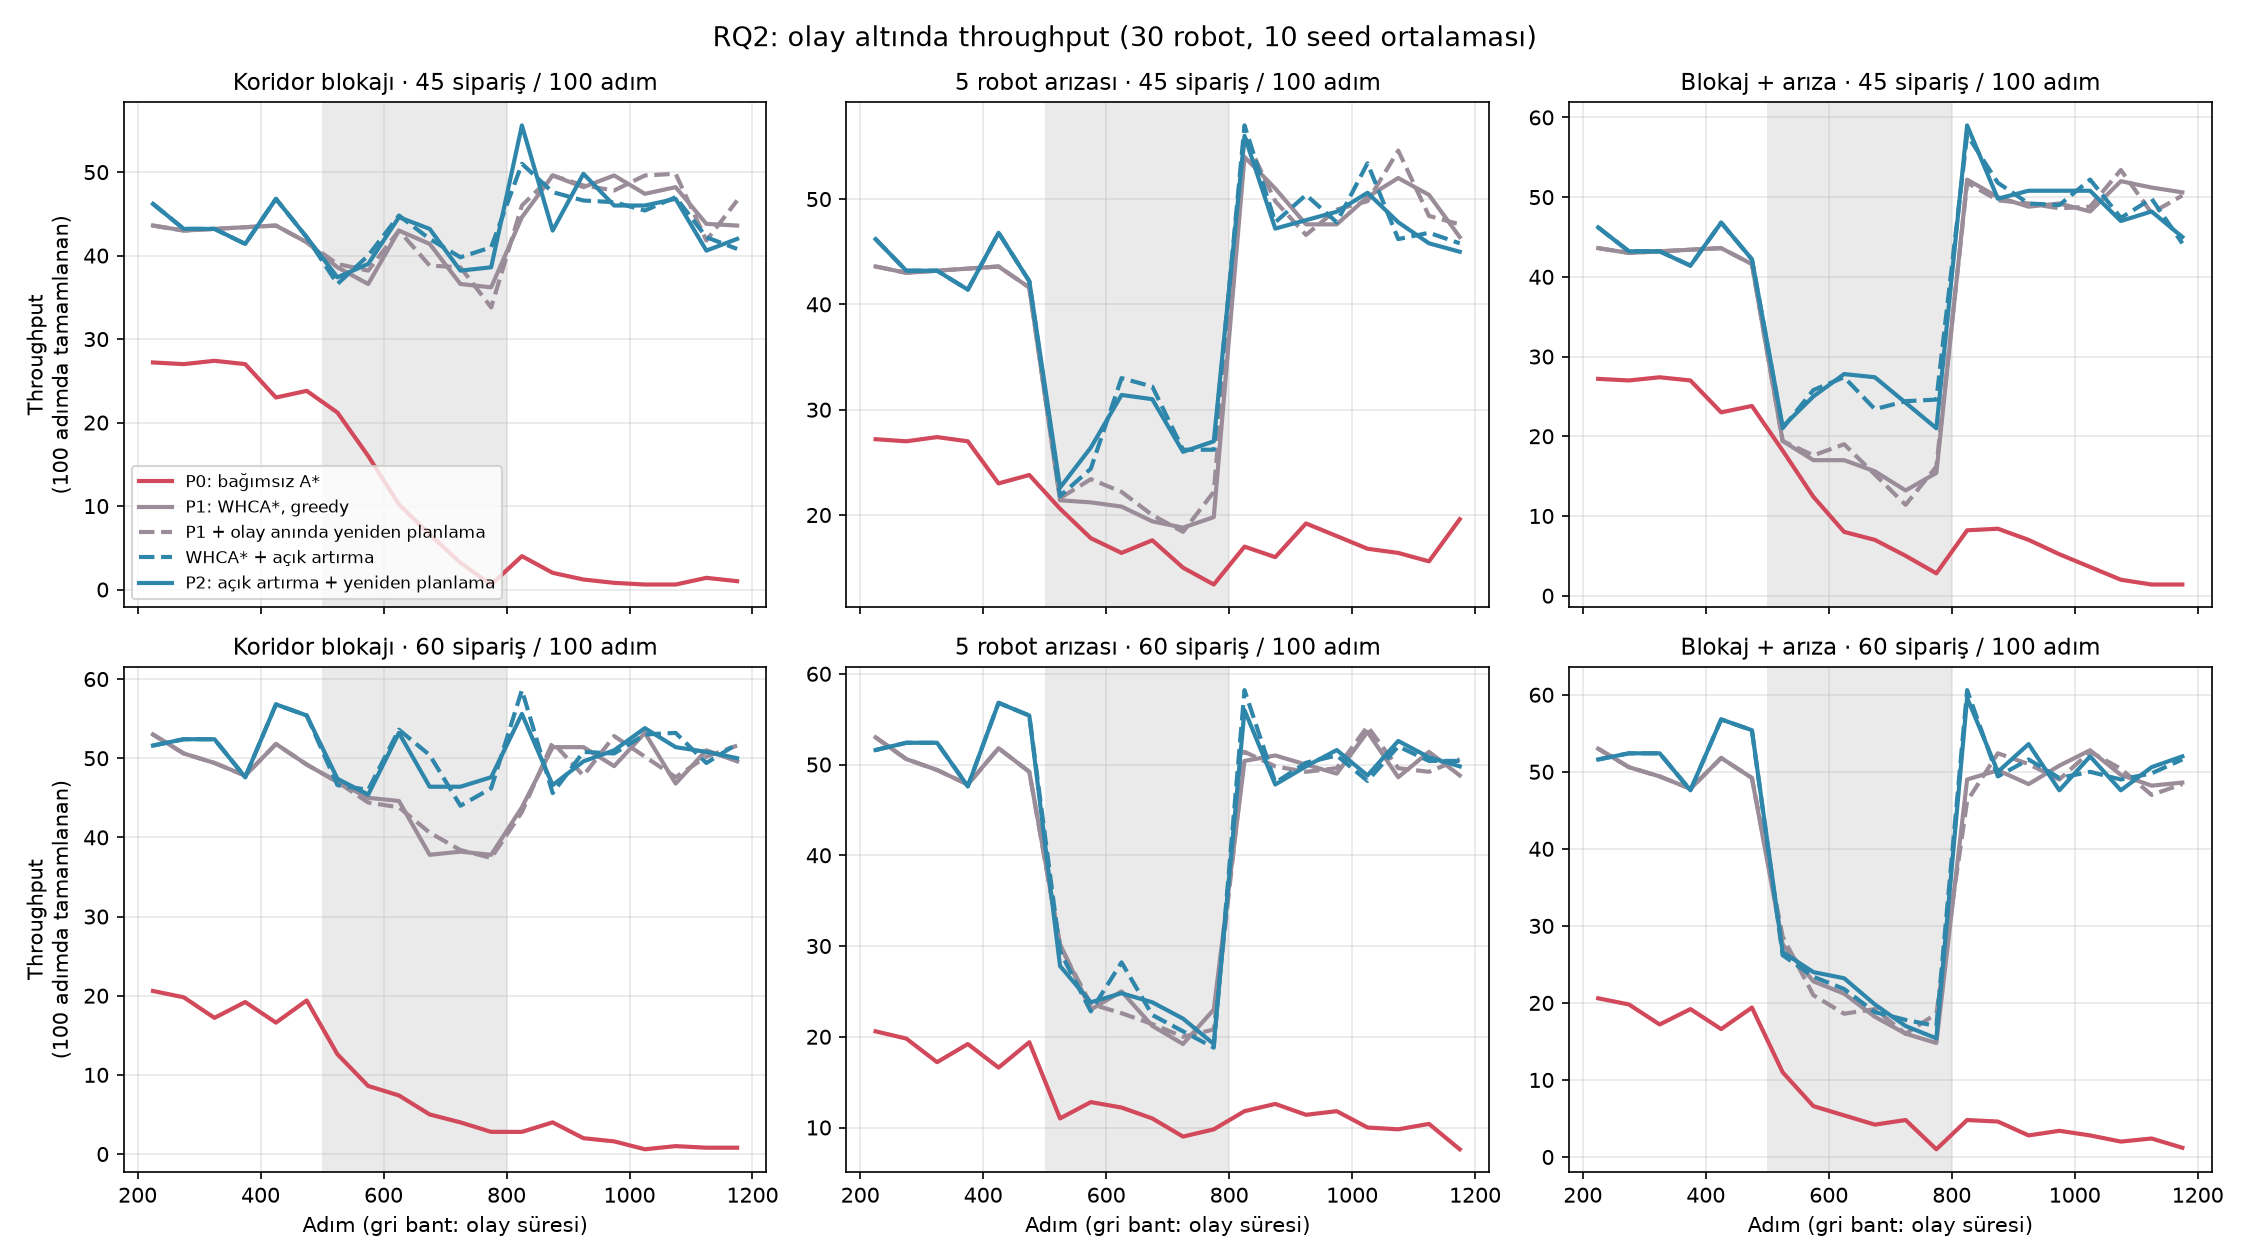
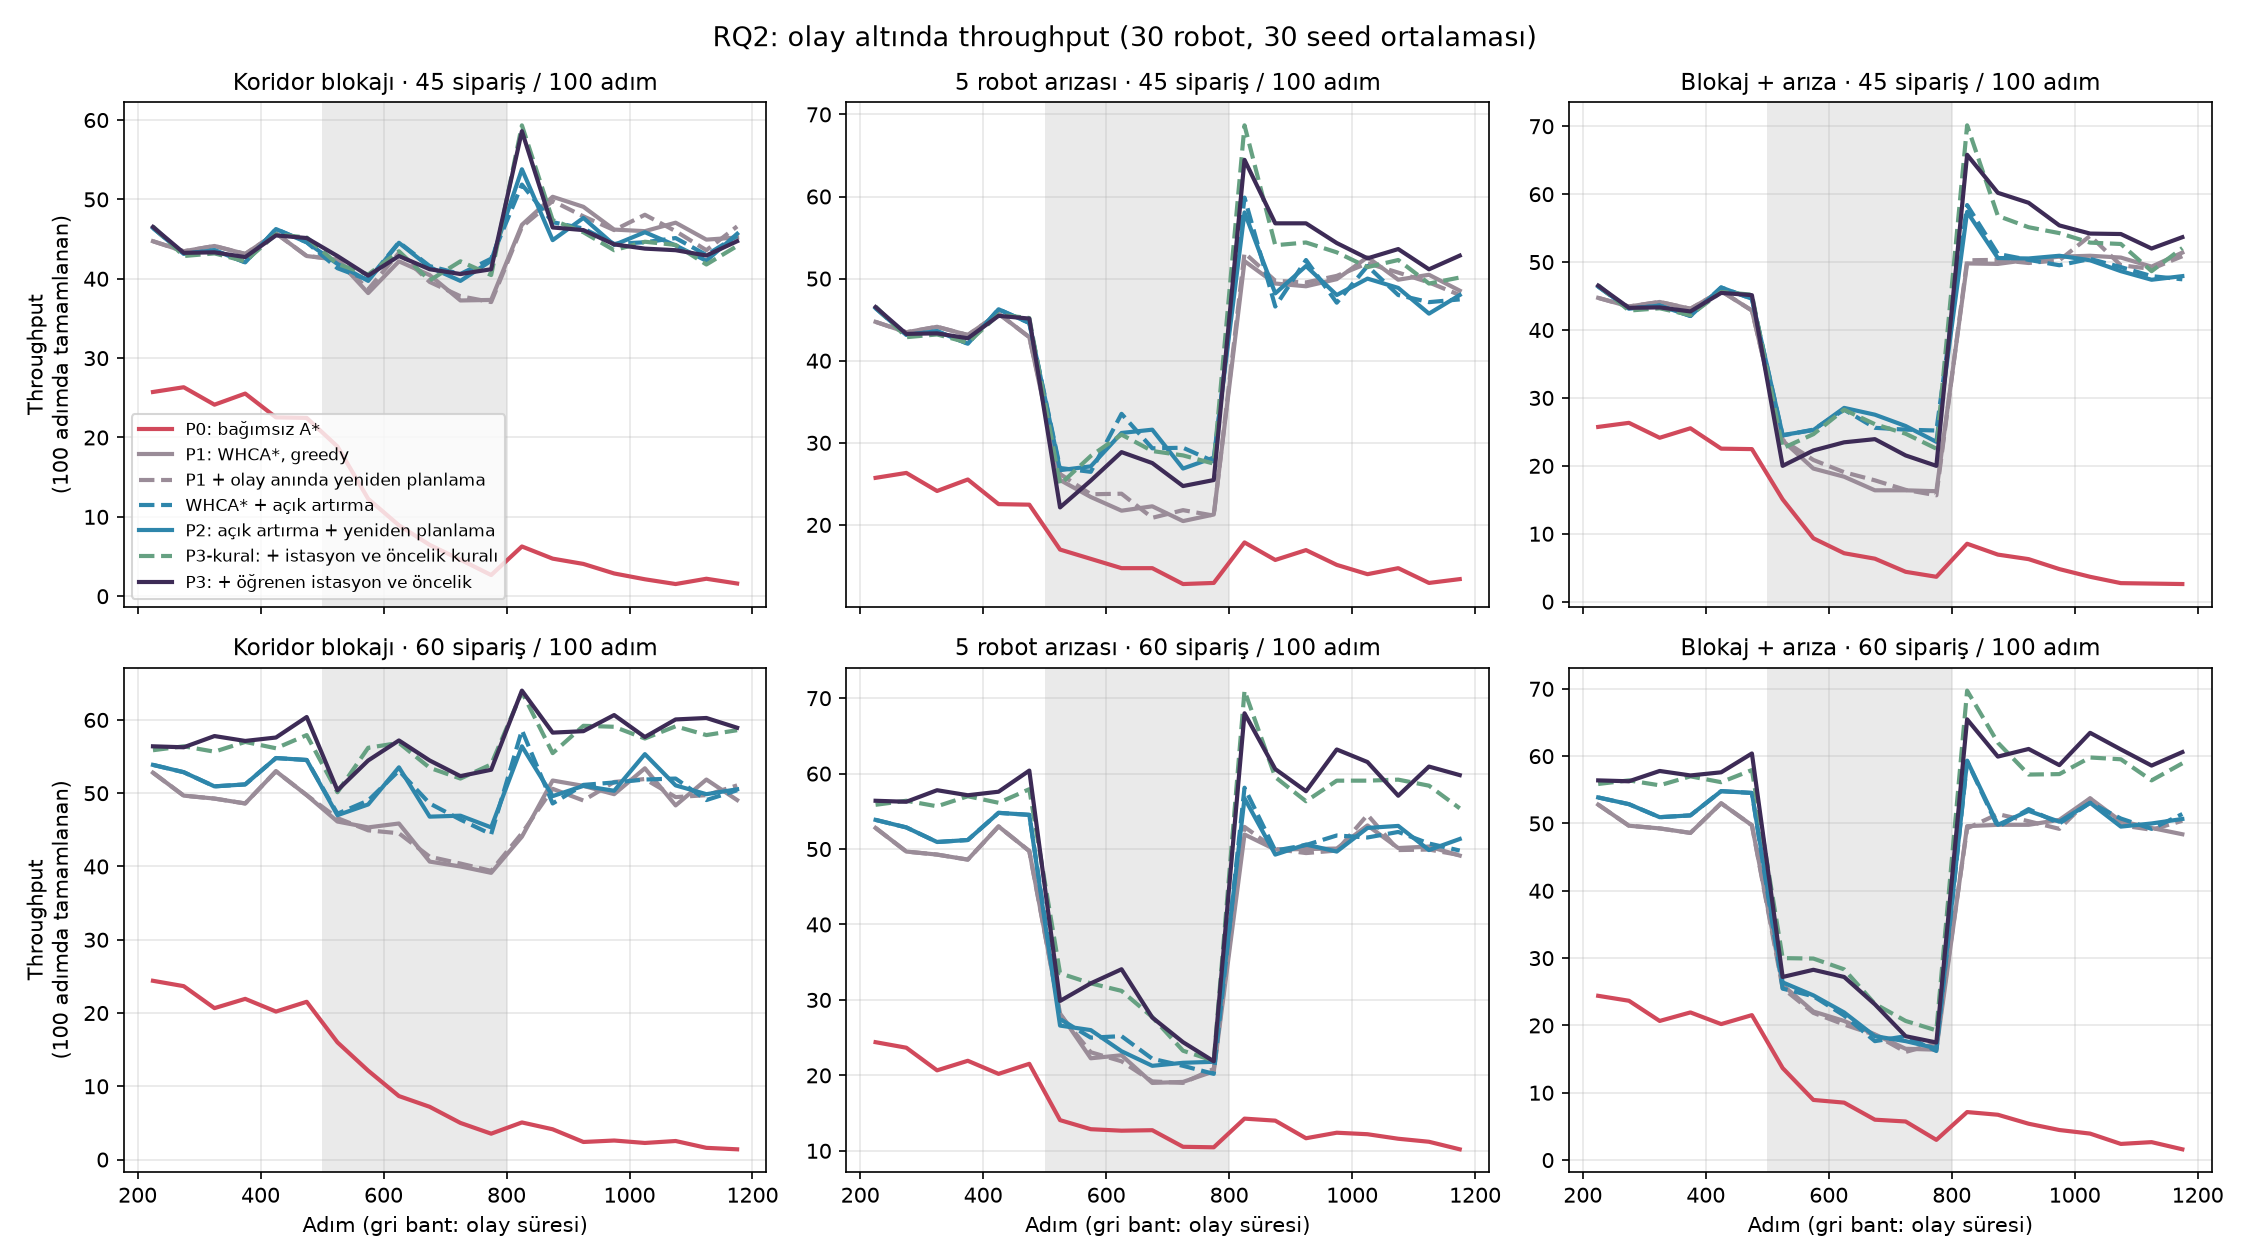
final deneyi eklendi, P0-P3 bütün depolarda ve MovingAI haritasında çalışıyor

diff --git a/tools/plot_final.py b/tools/plot_final.py
@@ -1,0 +1,111 @@
+"""results/final.csv'den final grafiklerini ve özet tabloyu üretir.
+
+    uv run --group analysis python tools/plot_final.py
+
+Her düzende en çok robotlu durumun kapasite eğrisi docs/media/final_capacity.png dosyasına çizilir.
+Düzen, robot sayısı, hız ve politikaya göre ortalamalar results/final_summary.csv dosyasına yazılır.
+Bir de seçili yüklerde P3 ile P2, P3 ile P3-rule arasındaki farkı (%95 güven aralığıyla) yazdırır.
+"""
+
+from __future__ import annotations
+
+import csv
+import statistics as st
+from collections import defaultdict
+from pathlib import Path
+
+import matplotlib
+
+matplotlib.use("Agg")
+import matplotlib.pyplot as plt
+
+ROOT = Path(__file__).resolve().parent.parent
+CSV = ROOT / "results" / "final.csv"
+OUT = ROOT / "docs" / "media" / "final_capacity.png"
+SUMMARY = ROOT / "results" / "final_summary.csv"
+
+STYLE = {
+    "P0": {"label": "P0 bağımsız A* + Local Repair", "color": "#d1495b"},
+    "P1": {"label": "P1 WHCA*", "color": "#2e86ab"},
+    "P2": {"label": "P2 + açık artırma", "color": "#edae49"},
+    "P3-rule": {"label": "P3 (kural) + istasyon ve öncelik kuralı", "color": "#66a182"},
+    "P3": {"label": "P3 + öğrenen istasyon ve öncelik", "color": "#3d2b56"},
+}
+TITLES = {"low": "Düşük raf yoğunluğu", "medium": "Orta raf yoğunluğu (eğitim)",
+          "high": "Yüksek raf yoğunluğu", "movingai": "MovingAI warehouse-10-20-10-2-1"}
+# özet tablodaki yük noktaları (düzen, robot, hız)
+POINTS = [("low", 30, 0.6), ("medium", 30, 0.6), ("high", 30, 0.6),
+          ("low", 30, 0.8), ("medium", 30, 0.8), ("high", 30, 0.8),
+          ("movingai", 100, 0.8), ("movingai", 100, 1.2)]
+
+
+def paired(groups, key_a, key_b, metric):
+    """Aynı seed'leri eşleştirip a - b farkının ortalamasını, %95 güven aralığının yarısını ve b'nin ortalamasını döndürür."""
+    a = {r["seed"]: float(r[metric]) for r in groups[key_a]}
+    b = {r["seed"]: float(r[metric]) for r in groups[key_b]}
+    d = [a[s] - b[s] for s in a if s in b]
+    half = 1.96 * st.stdev(d) / len(d) ** 0.5 if len(d) > 1 else 0.0
+    return st.mean(d), half, st.mean(b.values())
+
+
+def main() -> None:
+    groups = defaultdict(list)
+    for row in csv.DictReader(CSV.open()):
+        groups[(row["layout"], int(row["robots"]), float(row["rate"]), row["policy"])].append(row)
+    layouts = [lay for lay in TITLES if any(k[0] == lay for k in groups)]
+
+    # özet CSV
+    with SUMMARY.open("w", newline="") as f:
+        writer = csv.writer(f)
+        writer.writerow(["layout", "robots", "rate", "policy", "runs", "throughput", "throughput_sd",
+                         "completion_time", "conflicts", "deadlocked_pct"])
+        for (lay, n, r, p), rows in sorted(groups.items()):
+            thr = [float(x["throughput"]) for x in rows]
+            writer.writerow([lay, n, r, p, len(rows), round(st.mean(thr), 2), round(st.stdev(thr), 2),
+                             round(st.mean(float(x["mean_completion_time"]) for x in rows), 1),
+                             round(st.mean(int(x["conflicts"]) for x in rows), 1),
+                             round(100 * st.mean(int(x["deadlocked"]) for x in rows), 1)])
+
+    # grafik
+    fig, axes = plt.subplots(1, len(layouts), figsize=(4.3 * len(layouts), 4.4))
+    for ax, lay in zip(axes, layouts):
+        n = max(k[1] for k in groups if k[0] == lay)
+        rates = sorted({k[2] for k in groups if k[0] == lay and k[1] == n})
+        demand = [100 * r for r in rates]
+        ax.plot(demand, demand, "--", color="#888888", lw=1, label="talep")
+        for policy, style in STYLE.items():
+            means, sds = [], []
+            for r in rates:
+                thr = [float(x["throughput"]) for x in groups[(lay, n, r, policy)]]
+                means.append(st.mean(thr))
+                sds.append(st.stdev(thr))
+            ax.plot(demand, means, "o-", color=style["color"], lw=2, ms=3.5, label=style["label"])
+            ax.fill_between(demand, [m - s for m, s in zip(means, sds)], [m + s for m, s in zip(means, sds)],
+                            color=style["color"], alpha=0.12)
+        seeds = len(groups[(lay, n, rates[0], "P0")])
+        ax.set_title(f"{TITLES[lay]}\n{n} robot, {seeds} seed", fontsize=10.5)
+        ax.set_xlabel("Gelen sipariş (100 adımda)")
+        ax.grid(alpha=0.3)
+    axes[0].set_ylabel("Throughput (100 adımda tamamlanan)")
+    axes[0].legend(fontsize=7.5, loc="upper left")
+    fig.suptitle("Kapasite eğrileri (ortalama ± standart sapma). Öğrenen modeller yalnızca orta yoğunlukta eğitildi.",
+                 fontsize=11)
+    fig.tight_layout()
+    OUT.parent.mkdir(parents=True, exist_ok=True)
+    fig.savefig(OUT, dpi=160)
+    print(f"-> {OUT}\n-> {SUMMARY}\n")
+
+    # eşleştirilmiş farklar
+    print(f"{'nokta':<22}{'metrik':<12}{'P2':>8}{'P3-P2':>18}{'P3-rule':>9}{'P3-P3rule':>18}")
+    for lay, n, r in POINTS:
+        if (lay, n, r, "P3") not in groups:
+            continue
+        for metric, label in (("throughput", "throughput"), ("mean_completion_time", "süre")):
+            d1, h1, base2 = paired(groups, (lay, n, r, "P3"), (lay, n, r, "P2"), metric)
+            d2, h2, base_rule = paired(groups, (lay, n, r, "P3"), (lay, n, r, "P3-rule"), metric)
+            print(f"{f'{lay} {n}r {r}':<22}{label:<12}{base2:>8.1f}{f'{d1:+.1f} ±{h1:.1f}':>18}"
+                  f"{base_rule:>9.1f}{f'{d2:+.1f} ±{h2:.1f}':>18}")
+
+
+if __name__ == "__main__":
+    main()

diff --git a/tools/run_final.py b/tools/run_final.py
@@ -1,0 +1,105 @@
+"""Final deneyi. Bütün politikalar bütün depo düzenlerinde çalıştırılır.
+
+    uv run python tools/run_final.py            # hepsi
+    uv run python tools/run_final.py movingai   # sadece bir düzen
+
+Karşılaştırılan politikalar şunlar.
+  P0       bağımsız A* + Local Repair (Silver 2005)
+  P1       WHCA*, pencere 16, 8 adımda bir yeniden planlama (Silver 2005)
+  P2       P1 + sıralı açık artırma (Koenig 2006) + olay olunca yeniden planlama
+  P3-rule  P2 + kural tabanlı istasyon seçimi ve öncelik sırası
+  P3       P2 + öğrenilmiş istasyon seçimi ve öncelik ağırlıkları
+Depo düzenleri low, medium, high (warehouse.py) ve MovingAI'daki warehouse-10-20-10-2-1 (161x63).
+Modeller sadece medium düzende eğitildi. Diğer düzenlerde aynı modeller kullanılıyor.
+Kendi ürettiğimiz düzenlerde 0-29, movingai'de 0-9 seed'leri kullanılır.
+Sonuçlar results/final.csv dosyasına yazılır (tek düzen verilirse results/final_<düzen>.csv).
+"""
+
+from __future__ import annotations
+
+import csv
+import json
+import random
+import sys
+from concurrent.futures import ProcessPoolExecutor
+from dataclasses import asdict
+from functools import cache
+from pathlib import Path
+
+import numpy as np
+
+from warehouse_mapf.assignment import greedy_assign
+from warehouse_mapf.orders import generate_orders
+from warehouse_mapf.priority import LinearPriority, heuristic
+from warehouse_mapf.sim import Simulation
+from warehouse_mapf.stations import LearnedStation, QueueAwareStation
+from warehouse_mapf.warehouse import generate_warehouse, load_movingai
+
+ROOT = Path(__file__).resolve().parent.parent
+WARMUP, HORIZON = 200, 1000
+
+# düzen -> (robot sayıları, geliş hızları, seed'ler)
+LAYOUTS = {
+    "low":      ([10, 20, 30], [0.1, 0.2, 0.3, 0.4, 0.5, 0.6, 0.7, 0.8, 1.0, 1.2], range(30)),
+    "medium":   ([10, 20, 30], [0.1, 0.2, 0.3, 0.4, 0.5, 0.6, 0.7, 0.8, 1.0, 1.2], range(30)),
+    "high":     ([10, 20, 30], [0.1, 0.2, 0.3, 0.4, 0.5, 0.6, 0.7, 0.8, 1.0, 1.2], range(30)),
+    "movingai": ([50, 100], [0.2, 0.4, 0.6, 0.8, 1.0, 1.2, 1.5], range(10)),
+}
+POLICIES = ["P0", "P1", "P2", "P3-rule", "P3"]
+
+
+@cache
+def warehouse(layout: str):
+    if layout == "movingai":
+        return load_movingai(ROOT / "maps" / "warehouse-10-20-10-2-1.map")
+    return generate_warehouse(density=layout)
+
+
+def options(policy: str) -> dict:
+    if policy == "P0":
+        return {}
+    if policy == "P1":
+        return {"planner": "windowed"}
+    p2 = {"planner": "windowed", "allocation": "auction", "event_replan": True}
+    if policy == "P2":
+        return p2
+    if policy == "P3-rule":
+        alpha = json.loads((ROOT / "models" / "station_rule.json").read_text())["alpha"]
+        return {**p2, "station": QueueAwareStation(alpha), "priority": heuristic("carrying-first")}
+    data = json.loads((ROOT / "models" / "priority_policy.json").read_text())
+    priority = LinearPriority(np.array(data["weights"]) / np.array(data["scale"]), name="learned")
+    return {**p2, "station": LearnedStation.load(ROOT / "models" / "station_policy.json"), "priority": priority}
+
+
+def run_one(job) -> dict:
+    layout, policy, robots, rate, seed = job
+    w = warehouse(layout)
+    orders = generate_orders(w, rate, WARMUP + HORIZON, random.Random(seed))
+    m = Simulation(w, orders, robots, greedy_assign, horizon=HORIZON, warmup=WARMUP, seed=seed,
+                   **options(policy)).run()
+    return {"layout": layout, "policy": policy, "rate": rate, "seed": seed, **asdict(m)}
+
+
+def main() -> None:
+    layouts = sys.argv[1:] or list(LAYOUTS)
+    jobs = [(lay, p, n, r, s)
+            for lay in layouts
+            for p in POLICIES
+            for n in LAYOUTS[lay][0] for r in LAYOUTS[lay][1] for s in LAYOUTS[lay][2]]
+    jobs.sort(key=lambda j: j[0] != "movingai")     # uzun süren movingai işleri önce başlasın
+    rows = []
+    with ProcessPoolExecutor() as pool:
+        for i, row in enumerate(pool.map(run_one, jobs, chunksize=2), 1):
+            rows.append(row)
+            if i % 200 == 0 or i == len(jobs):
+                print(f"{i}/{len(jobs)}", flush=True)
+    out = ROOT / "results" / ("final.csv" if len(layouts) == len(LAYOUTS) else f"final_{'_'.join(layouts)}.csv")
+    with out.open("w", newline="") as f:
+        writer = csv.DictWriter(f, fieldnames=list(rows[0]))
+        writer.writeheader()
+        writer.writerows(rows)
+    print(f"{len(rows)} simülasyon -> {out}")
+
+
+if __name__ == "__main__":
+    main()

diff --git a/tools/run_rq2.py b/tools/run_rq2.py
@@ -10,18 +10,23 @@ tamamlanan sipariş sayıları da results/rq2_timeseries.csv dosyasına yazılı
 from __future__ import annotations
 
 import csv
+import json
 import random
 from concurrent.futures import ProcessPoolExecutor
 from pathlib import Path
 
+import numpy as np
+
 from warehouse_mapf.assignment import greedy_assign
 from warehouse_mapf.orders import generate_orders
+from warehouse_mapf.priority import LinearPriority, heuristic
 from warehouse_mapf.sim import Event, Simulation
+from warehouse_mapf.stations import LearnedStation, QueueAwareStation
 from warehouse_mapf.warehouse import generate_warehouse
 
 WARMUP, HORIZON = 200, 1000
 EVENT_START, EVENT_LEN = 500, 300
-SEEDS = range(10)
+SEEDS = range(30)
 ROBOTS = 30
 DENSITY = "medium"
 RATES = [0.45, 0.6]
@@ -41,9 +46,24 @@ POLICIES = {
     "P1+replan": dict(planner="windowed", event_replan=True),
     "P2-auction": dict(planner="windowed", allocation="auction"),
     "P2": dict(planner="windowed", allocation="auction", event_replan=True),
+    "P3-rule": dict(planner="windowed", allocation="auction", event_replan=True),   # + kural tabanlı istasyon ve öncelik
+    "P3": dict(planner="windowed", allocation="auction", event_replan=True),        # + öğrenilmiş istasyon ve öncelik
 }
 
-RESULTS = Path(__file__).resolve().parent.parent / "results"
+ROOT = Path(__file__).resolve().parent.parent
+RESULTS = ROOT / "results"
+
+
+def make_extras(policy: str) -> dict:
+    """P3'ün istasyon ve öncelik nesneleri durum tutuyor, o yüzden her simülasyonda yeniden kuruluyor."""
+    if policy == "P3-rule":
+        alpha = json.loads((ROOT / "models" / "station_rule.json").read_text())["alpha"]
+        return {"station": QueueAwareStation(alpha), "priority": heuristic("carrying-first")}
+    if policy == "P3":
+        data = json.loads((ROOT / "models" / "priority_policy.json").read_text())
+        return {"station": LearnedStation.load(ROOT / "models" / "station_policy.json"),
+                "priority": LinearPriority(np.array(data["weights"]) / np.array(data["scale"]), name="learned")}
+    return {}
 
 
 def summarize(sim: Simulation) -> dict:
@@ -76,7 +96,7 @@ def run_one(job):
     warehouse = generate_warehouse(density=DENSITY)
     orders = generate_orders(warehouse, rate, WARMUP + HORIZON, random.Random(seed))
     sim = Simulation(warehouse, orders, ROBOTS, greedy_assign, horizon=HORIZON, warmup=WARMUP,
-                     seed=seed, events=SCENARIOS[scenario], **POLICIES[policy])
+                     seed=seed, events=SCENARIOS[scenario], **POLICIES[policy], **make_extras(policy))
     m = sim.run()
     row = {"policy": policy, "scenario": scenario, "rate": rate, "seed": seed,
            "throughput": m.throughput, "mean_completion_time": round(m.mean_completion_time, 1),

diff --git a/tools/plot_rq2.py b/tools/plot_rq2.py
@@ -2,7 +2,7 @@
 
     uv run --group analysis python tools/plot_rq2.py
 
-Her panel bir yük ve bir senaryo. Çizgiler 10 seed'in ortalaması. Gri bant olayın sürdüğü aralık.
+Her panel bir yük ve bir senaryo. Çizgiler 30 seed'in ortalaması. Gri bant olayın sürdüğü aralık.
 Grafik docs/media/rq2.png dosyasına kaydedilir.
 """
 
@@ -28,6 +28,8 @@ STYLE = {
     "P1+replan": ("P1 + olay anında yeniden planlama", "#9a8c98", "--"),
     "P2-auction": ("WHCA* + açık artırma", "#2e86ab", "--"),
     "P2": ("P2: açık artırma + yeniden planlama", "#2e86ab", "-"),
+    "P3-rule": ("P3-kural: + istasyon ve öncelik kuralı", "#66a182", "--"),
+    "P3": ("P3: + öğrenen istasyon ve öncelik", "#3d2b56", "-"),
 }
 SCENARIOS = {"block": "Koridor blokajı", "fail": "5 robot arızası", "both": "Blokaj + arıza"}
 
@@ -57,7 +59,7 @@ def main() -> None:
             if i == len(rates) - 1:
                 ax.set_xlabel("Adım (gri bant: olay süresi)")
     axes[0][0].legend(fontsize=8, loc="lower left")
-    fig.suptitle("RQ2: olay altında throughput (30 robot, 10 seed ortalaması)", fontsize=13)
+    fig.suptitle("RQ2: olay altında throughput (30 robot, 30 seed ortalaması)", fontsize=13)
     fig.tight_layout()
     OUT.parent.mkdir(parents=True, exist_ok=True)
     fig.savefig(OUT, dpi=150)
